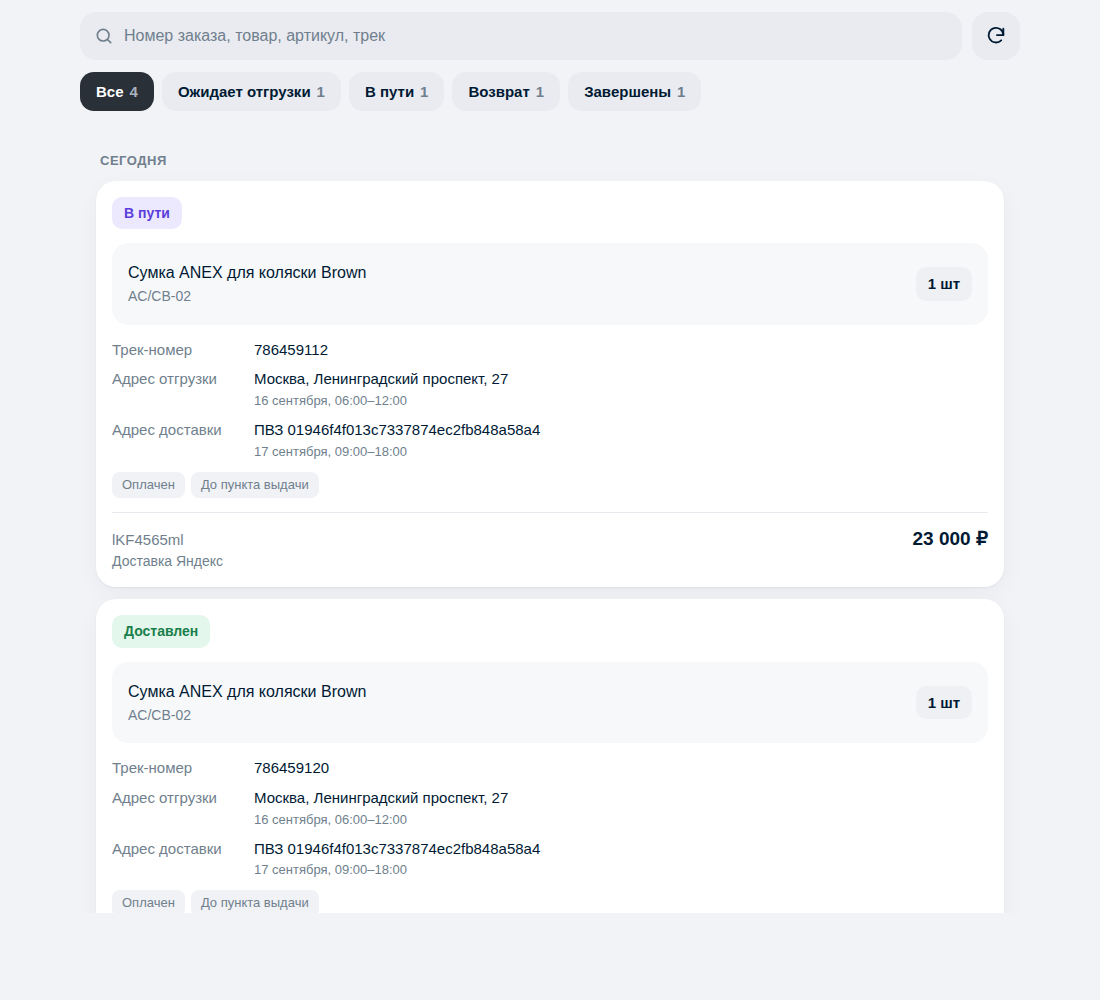
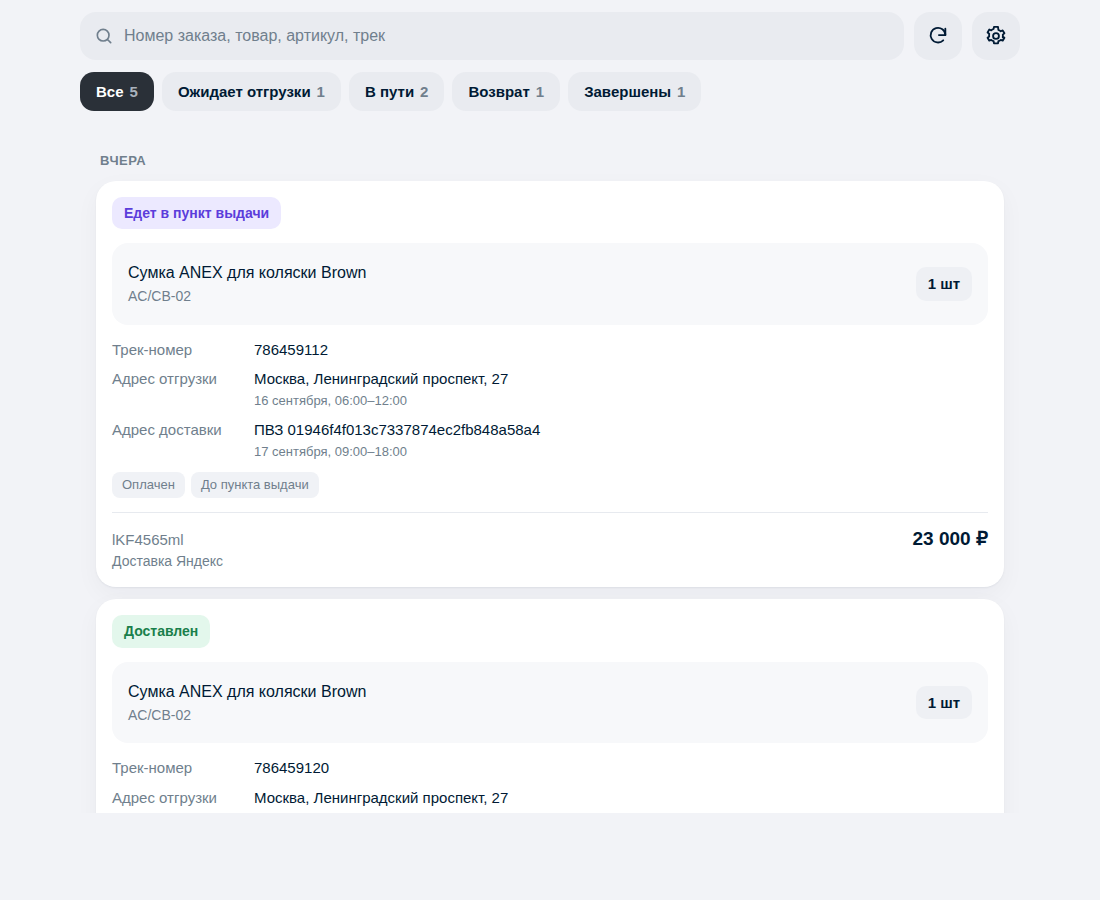
Привести статусы к статусной модели Яндекс Доставки
Каталог статусов переписан по документации «Доставки в другой день» для обеих
веток — до двери и до ПВЗ. Раньше коды были взяты по аналогии с экспресс-
доставкой и в боевом API не встречались: заказы попадали в разделы по
запасному шаблону имени, а на бейдже оказывался сырой код статуса.

Граница между «Ожидает отгрузки» и «В пути» — SORTING_CENTER_AT_START: до него
заказ оформляется, после принят в сортировочном центре. VALIDATING_ERROR и
DELIVERY_ATTEMPT_FAILED подсвечиваются как требующие внимания, основные
статусы цепочки выделяются в истории заказа.

Тест закрепляет раскладку всей модели по разделам.

Claude-Session: https://claude.ai/code/session_01LU9Db7rc7RKmFuVRERJTjp

diff --git a/server/statuses.js b/server/statuses.js
@@ -1,13 +1,12 @@
-// Каталог статусов Яндекс Доставки и их раскладка по разделам панели.
+// Статусная модель «Доставки в другой день» и её раскладка по разделам панели.
+// Источник: yandex.ru/support/delivery-profile/ru/api/other-day/status-model
 //
-// Разделы панели: awaiting (Ожидает отгрузки), transit (В пути),
-// return (Возврат), done (Завершены). Раздел «Все» — псевдо-раздел.
+// Разделы: awaiting (Ожидает отгрузки), transit (В пути), return (Возврат),
+// done (Завершены). Граница между awaiting и transit — момент, когда заказ
+// физически принят в сортировочном центре (SORTING_CENTER_AT_START).
 //
-// В API «Доставка в другой день» статусы приходят в верхнем регистре
-// (DELIVERED_FINISH), в экспресс-доставке — в нижнем (delivered_finish),
-// поэтому ключи нормализуются к верхнему регистру. Неизвестные статусы
-// раскладываются эвристикой matchByPattern(), чтобы новый статус в API
-// не ронял фильтрацию.
+// major — основные статусы логистической цепочки (в документации выделены
+// жирным), остальные считаются статусами детализации.
 
 export const TABS = [
   { id: 'all', title: 'Все' },
@@ -20,74 +19,51 @@ export const TABS = [
 export const TAB_IDS = TABS.map((t) => t.id);
 
 const STATUS_MAP = {
-  // --- Оформление заявки ---
-  DRAFT: { group: 'awaiting', label: 'Черновик' },
-  VALIDATING: { group: 'awaiting', label: 'Проверяется' },
-  VALIDATING_ERROR: { group: 'awaiting', label: 'Ошибка проверки' },
-  NEW: { group: 'awaiting', label: 'Новый' },
-  ESTIMATING: { group: 'awaiting', label: 'Расчёт стоимости' },
-  ESTIMATING_FAILED: { group: 'awaiting', label: 'Не удалось рассчитать' },
-  READY_FOR_APPROVAL: { group: 'awaiting', label: 'Ожидает подтверждения' },
-  CREATED: { group: 'awaiting', label: 'Ожидает отгрузки' },
-  CREATED_ERROR: { group: 'awaiting', label: 'Ошибка создания' },
-  ACCEPTED: { group: 'awaiting', label: 'Подтверждён' },
-  PERFORMER_LOOKUP: { group: 'awaiting', label: 'Поиск курьера' },
-  PERFORMER_DRAFT: { group: 'awaiting', label: 'Поиск курьера' },
-  PERFORMER_FOUND: { group: 'awaiting', label: 'Курьер назначен' },
-  PERFORMER_NOT_FOUND: { group: 'awaiting', label: 'Курьер не найден' },
-  PICKUP_ARRIVED: { group: 'awaiting', label: 'Курьер на складе' },
-  READY_FOR_PICKUP_CONFIRMATION: { group: 'awaiting', label: 'Подтверждение отгрузки' },
+  // --- До передачи в сортировочный центр ---
+  VALIDATING_ERROR: { group: 'awaiting', label: 'Не подтверждён в СЦ', problem: true },
+  CREATED: { group: 'awaiting', label: 'Создан', major: true },
+  DELIVERY_PROCESSING_STARTED: { group: 'awaiting', label: 'Оформляется в СЦ' },
+  SORTING_CENTER_LOADED: { group: 'awaiting', label: 'Подтверждён в СЦ' },
 
-  // --- В пути (семейство DELIVERY_* в статусной модели НДД) ---
-  DELIVERY_LOADED: { group: 'transit', label: 'Принят в доставку' },
-  DELIVERY_AT_START: { group: 'transit', label: 'На складе отправления' },
-  DELIVERY_TRANSPORTATION: { group: 'transit', label: 'В пути' },
-  DELIVERY_ARRIVED_PICKUP: { group: 'transit', label: 'Ожидает в ПВЗ' },
-  DELIVERY_DELIVERED: { group: 'done', label: 'Доставлен' },
-
-  PICKUPED: { group: 'transit', label: 'Отгружен' },
-  PICKED_UP: { group: 'transit', label: 'Отгружен' },
-  TRANSPORTATION: { group: 'transit', label: 'В пути' },
-  IN_TRANSIT: { group: 'transit', label: 'В пути' },
-  DELIVERY: { group: 'transit', label: 'Доставляется' },
-  DELIVERY_PENDING: { group: 'transit', label: 'Ожидает доставки' },
-  DELIVERY_ARRIVED: { group: 'transit', label: 'Курьер у получателя' },
-  DELIVERY_AT_POINT: { group: 'transit', label: 'Ожидает в ПВЗ' },
-  ARRIVED_TO_PICKUP_POINT: { group: 'transit', label: 'Ожидает в ПВЗ' },
-  READY_FOR_DELIVERY_CONFIRMATION: { group: 'transit', label: 'Подтверждение вручения' },
-  PAY_WAITING: { group: 'transit', label: 'Ожидает оплаты' },
-
-  // --- Возврат ---
-  RETURNING: { group: 'return', label: 'Возвращается' },
-  RETURN_ARRIVED: { group: 'return', label: 'Возврат прибыл' },
-  READY_FOR_RETURN_CONFIRMATION: { group: 'return', label: 'Подтверждение возврата' },
-  RETURNED: { group: 'return', label: 'Возвращён' },
-  CANCELLED_WITH_ITEMS_ON_HANDS: { group: 'return', label: 'Отменён, товар у курьера' },
+  // --- В пути ---
+  SORTING_CENTER_AT_START: { group: 'transit', label: 'Принят в СЦ', major: true },
+  SORTING_CENTER_PREPARED: { group: 'transit', label: 'Готов к отправке' },
+  SORTING_CENTER_TRANSMITTED: { group: 'transit', label: 'Передан в доставку' },
+  DELIVERY_AT_START: { group: 'transit', label: 'В городе получателя' },
+  DELIVERY_AT_START_SORT: { group: 'transit', label: 'В городе получателя' },
+  DELIVERY_TRANSPORTATION: { group: 'transit', label: 'Едет в пункт выдачи' },
+  DELIVERY_TRANSPORTATION_RECIPIENT: { group: 'transit', label: 'Доставляется клиенту' },
+  DELIVERY_ARRIVED_PICKUP_POINT: { group: 'transit', label: 'Ожидает в пункте выдачи' },
+  CONFIRMATION_CODE_RECEIVED: { group: 'transit', label: 'Код подтверждения получен' },
+  DELIVERY_TIME_INTERVALS_UPDATED: { group: 'transit', label: 'Время доставки изменено' },
+  DELIVERY_ATTEMPT_FAILED: { group: 'transit', label: 'Не вручён', problem: true },
 
   // --- Завершены ---
-  DELIVERED: { group: 'done', label: 'Доставлен' },
-  DELIVERED_FINISH: { group: 'done', label: 'Доставлен' },
-  RETURNED_FINISH: { group: 'done', label: 'Возврат завершён' },
-  FINISHED: { group: 'done', label: 'Завершён' },
-  CANCELLED: { group: 'done', label: 'Отменён' },
-  CANCELLED_BY_TAXI: { group: 'done', label: 'Отменён службой' },
-  CANCELLED_WITH_PAYMENT: { group: 'done', label: 'Отменён (платно)' },
-  CANCEL_ERROR: { group: 'done', label: 'Ошибка отмены' },
-  FAILED: { group: 'done', label: 'Ошибка' },
-  ERROR: { group: 'awaiting', label: 'Ошибка' },
+  DELIVERY_TRANSMITTED_TO_RECIPIENT: { group: 'done', label: 'Выдан получателю' },
+  PARTICULARLY_DELIVERED: { group: 'done', label: 'Доставлен частично', major: true },
+  DELIVERY_DELIVERED: { group: 'done', label: 'Доставлен', major: true },
+  CANCELLED: { group: 'done', label: 'Отменён', major: true },
+
+  // --- Возврат ---
+  SORTING_CENTER_RETURN_RETURNED: { group: 'return', label: 'Возвращён отправителю' },
+  RETURN_TRANSPORTATION_STARTED: { group: 'return', label: 'Едет в точку выдачи', major: true },
+  RETURN_ARRIVED_DELIVERY: { group: 'return', label: 'Возвращён на склад', major: true },
+  RETURN_READY_FOR_PICKUP: { group: 'return', label: 'Готов к передаче магазину', major: true },
+  RETURN_RETURNED: { group: 'return', label: 'Возвращён в магазин', major: true },
 };
 
-// Порядок важен: более специфичные шаблоны идут раньше.
-// Статусы, которые подсвечиваются как проблемные (красный бейдж в панели).
-const PROBLEM = /(ERROR|FAILED|NOT_FOUND|LOST|DAMAGED)/;
-
+// Запасная раскладка для статусов, которых ещё нет в этом каталоге:
+// порядок важен, более специфичные шаблоны идут раньше.
 const PATTERNS = [
   [/RETURN/, { group: 'return', label: 'Возврат' }],
-  [/(DELIVERED|FINISH|COMPLETE)/, { group: 'done', label: 'Завершён' }],
+  [/(DELIVERED|TRANSMITTED_TO_RECIPIENT)/, { group: 'done', label: 'Доставлен' }],
   [/CANCEL/, { group: 'done', label: 'Отменён' }],
-  [/(DELIVER|TRANSPORT|TRANSIT|PICKUPED|PICKED_UP|COURIER)/, { group: 'transit', label: 'В пути' }],
-  [/(DRAFT|VALID|CREATE|NEW|ESTIMAT|APPROV|ACCEPT|PERFORMER|PICKUP)/, { group: 'awaiting', label: 'Ожидает отгрузки' }],
+  [/(DELIVERY|SORTING_CENTER|TRANSPORT|COURIER|PICKUP)/, { group: 'transit', label: 'В пути' }],
+  [/(CREATE|VALIDAT|NEW|PROCESSING)/, { group: 'awaiting', label: 'Ожидает отгрузки' }],
 ];
+
+// Статусы, которые панель подсвечивает как требующие внимания.
+const PROBLEM = /(ERROR|FAILED|LOST|DAMAGED|EXPIRED)/;
 
 export function normalizeStatusCode(status) {
   if (!status) return '';
@@ -96,15 +72,23 @@ export function normalizeStatusCode(status) {
 
 export function resolveStatus(status, description) {
   const code = normalizeStatusCode(status);
-  const problem = PROBLEM.test(code);
   const known = STATUS_MAP[code];
+
   if (known) {
-    return { code, group: known.group, label: known.label, description: description || '', problem };
+    return {
+      code,
+      group: known.group,
+      label: known.label,
+      description: description || '',
+      major: Boolean(known.major),
+      problem: Boolean(known.problem) || PROBLEM.test(code),
+    };
   }
 
+  const problem = PROBLEM.test(code);
   for (const [pattern, fallback] of PATTERNS) {
     if (pattern.test(code)) {
-      return { code, group: fallback.group, label: fallback.label, description: description || '', problem };
+      return { code, group: fallback.group, label: fallback.label, description: description || '', major: false, problem };
     }
   }
   return {
@@ -112,6 +96,7 @@ export function resolveStatus(status, description) {
     group: 'awaiting',
     label: description || code || 'Без статуса',
     description: description || '',
+    major: false,
     problem,
   };
 }

diff --git a/public/app.js b/public/app.js
@@ -212,7 +212,7 @@ function detailPanels(order) {
 
   const history = (order.history || [])
     .map(
-      (state_) => `<li>
+      (state_) => `<li${state_.major ? ' class="timeline__major"' : ''}>
         <div>${escapeHtml(state_.description || state_.label)}</div>
         <div class="timeline__time">${escapeHtml(formatDateTime(state_.at))}${state_.reason ? ` · ${escapeHtml(state_.reason)}` : ''}</div>
       </li>`,

diff --git a/public/styles.css b/public/styles.css
@@ -291,6 +291,7 @@ body {
 .timeline li::after { content: ""; position: absolute; left: 4px; top: 17px; bottom: 0; width: 2px; background: var(--line); }
 .timeline li:last-child { padding-bottom: 0; }
 .timeline li:last-child::after { display: none; }
+.timeline__major > div:first-child { font-weight: 600; }
 .timeline__time { color: var(--muted); font-size: 13px; }
 
 .field { display: block; margin-bottom: 12px; }

diff --git a/server/orders.js b/server/orders.js
@@ -134,6 +134,8 @@ export async function getOrderDetails(requestId) {
         label: resolved.label,
         description: state.description || '',
         group: resolved.group,
+        major: resolved.major,
+        problem: resolved.problem,
         at: state.timestamp_utc || (state.timestamp ? new Date(state.timestamp * 1000).toISOString() : ''),
         reason: state.reason || '',
       };
